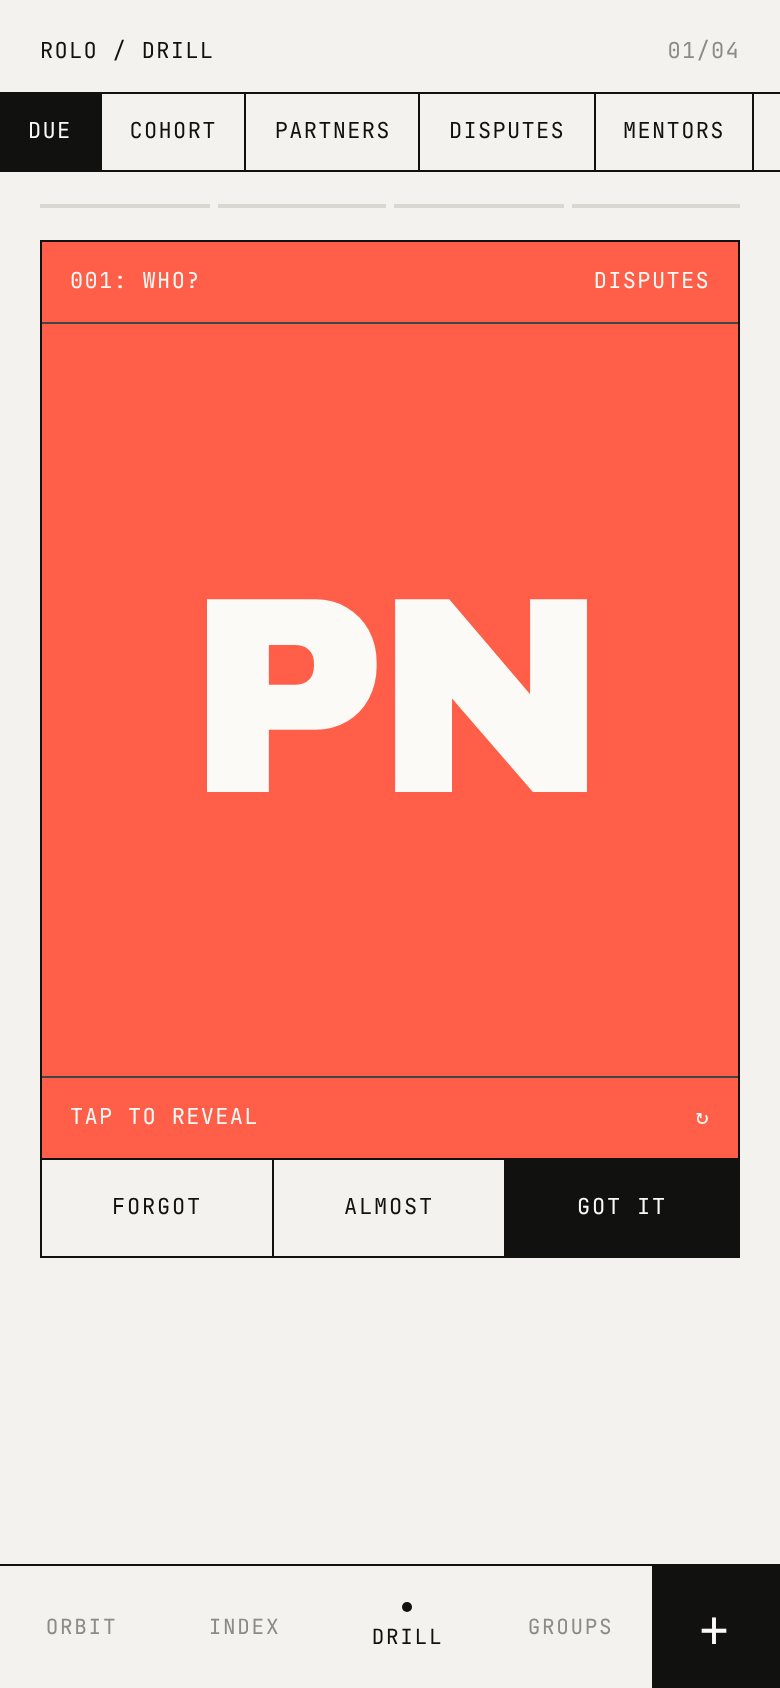
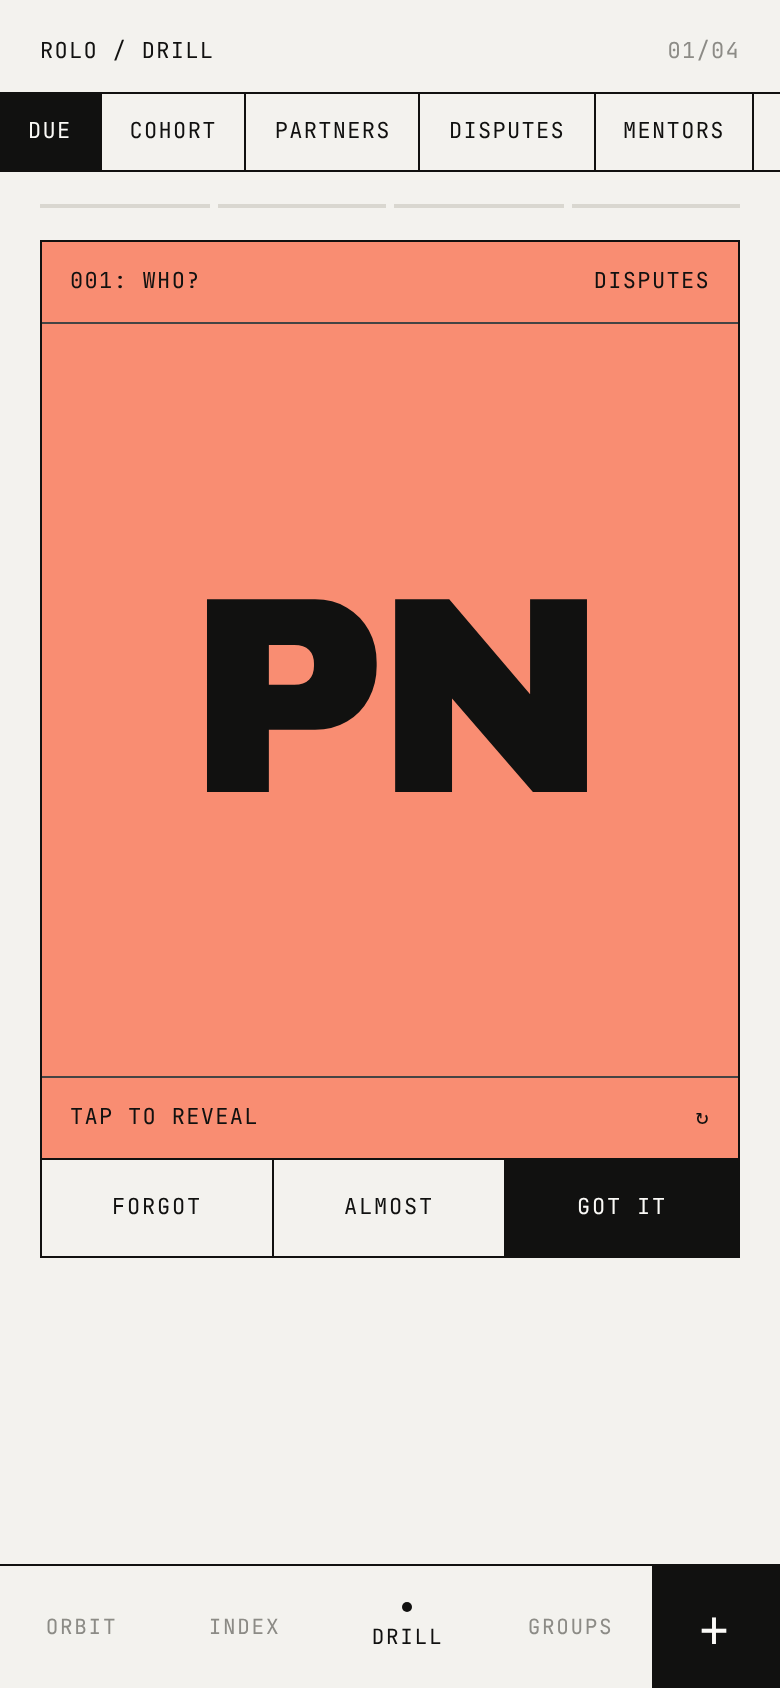
Refine palette: drop Allens blue and HSF navy, peachier Ashurst, softer liberty green, merged Mallesons blackcurrant
Claude-Session: https://claude.ai/code/session_01R71v8Qe5o2c96vbEDfs1Lo

diff --git a/mockup/index.html b/mockup/index.html
@@ -150,7 +150,7 @@ main{min-width:0;padding:0 0 96px}
 .tog.on i{transform:translateX(22px);background:var(--white)}
 .sw{display:inline-block;width:9px;height:9px;border-radius:50%;box-shadow:inset 0 0 0 .5px rgba(17,17,16,.5);margin-right:8px;vertical-align:middle}
 .filters button.on .sw{outline:1px solid var(--white)}
-.swatches{display:flex;flex-wrap:wrap;gap:6px;justify-content:flex-end;max-width:160px;flex:none}
+.swatches{display:flex;flex-wrap:wrap;gap:6px;justify-content:flex-end;max-width:180px;flex:none}
 .swb{width:20px;height:20px;border-radius:50%;box-shadow:inset 0 0 0 .5px rgba(17,17,16,.4)}
 .swb.on{outline:1.5px solid var(--ink);outline-offset:2px}
 .swl{width:36px;height:36px;border-radius:50%;position:relative;overflow:hidden;flex:none;border:1px solid var(--soft)}
@@ -196,15 +196,12 @@ main{min-width:0;padding:0 0 96px}
 // Firm palette, sampled from the firms' own brand artwork. Fine-tune in Settings.
 const palette = [
   {id:'kwm',    firm:'Mallesons',            name:'Periwinkle',    hex:'#CCCCFE'},
-  {id:'kwm2',   firm:'Mallesons',            name:'Blackcurrant',  hex:'#1C1028'},
-  {id:'kwm3',   firm:'Mallesons',            name:'Violet',        hex:'#4F3479'},
-  {id:'apc',    firm:'Ashurst Perkins Coie', name:'Liberty green', hex:'#00F2B6'},
+  {id:'kwm2',   firm:'Mallesons',            name:'Blackcurrant',  hex:'#33203F'},
+  {id:'apc',    firm:'Ashurst Perkins Coie', name:'Liberty green', hex:'#3DE3B9'},
   {id:'apc2',   firm:'Ashurst Perkins Coie', name:'Deep teal',     hex:'#002D3B'},
-  {id:'ash',    firm:'Ashurst (prior)',      name:'Coral',         hex:'#FF5F49'},
-  {id:'allens', firm:'Allens',               name:'Blue',          hex:'#0074BF'},
-  {id:'allens2',firm:'Allens',               name:'Magenta',       hex:'#AF005F'},
+  {id:'ash',    firm:'Ashurst (prior)',      name:'Peach',         hex:'#F98D72'},
+  {id:'allens', firm:'Allens',               name:'Magenta',       hex:'#AF005F'},
   {id:'hsf',    firm:'HSF Kramer',           name:'Teal',          hex:'#40AAB8'},
-  {id:'hsf2',   firm:'HSF Kramer',           name:'Navy',          hex:'#1B3E78'},
 ];
 const P = id => palette.find(x=>x.id===id);
 (JSON.parse(localStorage.getItem('rolo-palette')||'[]')).forEach(([id,h])=>{ if(P(id)) P(id).hex=h });
